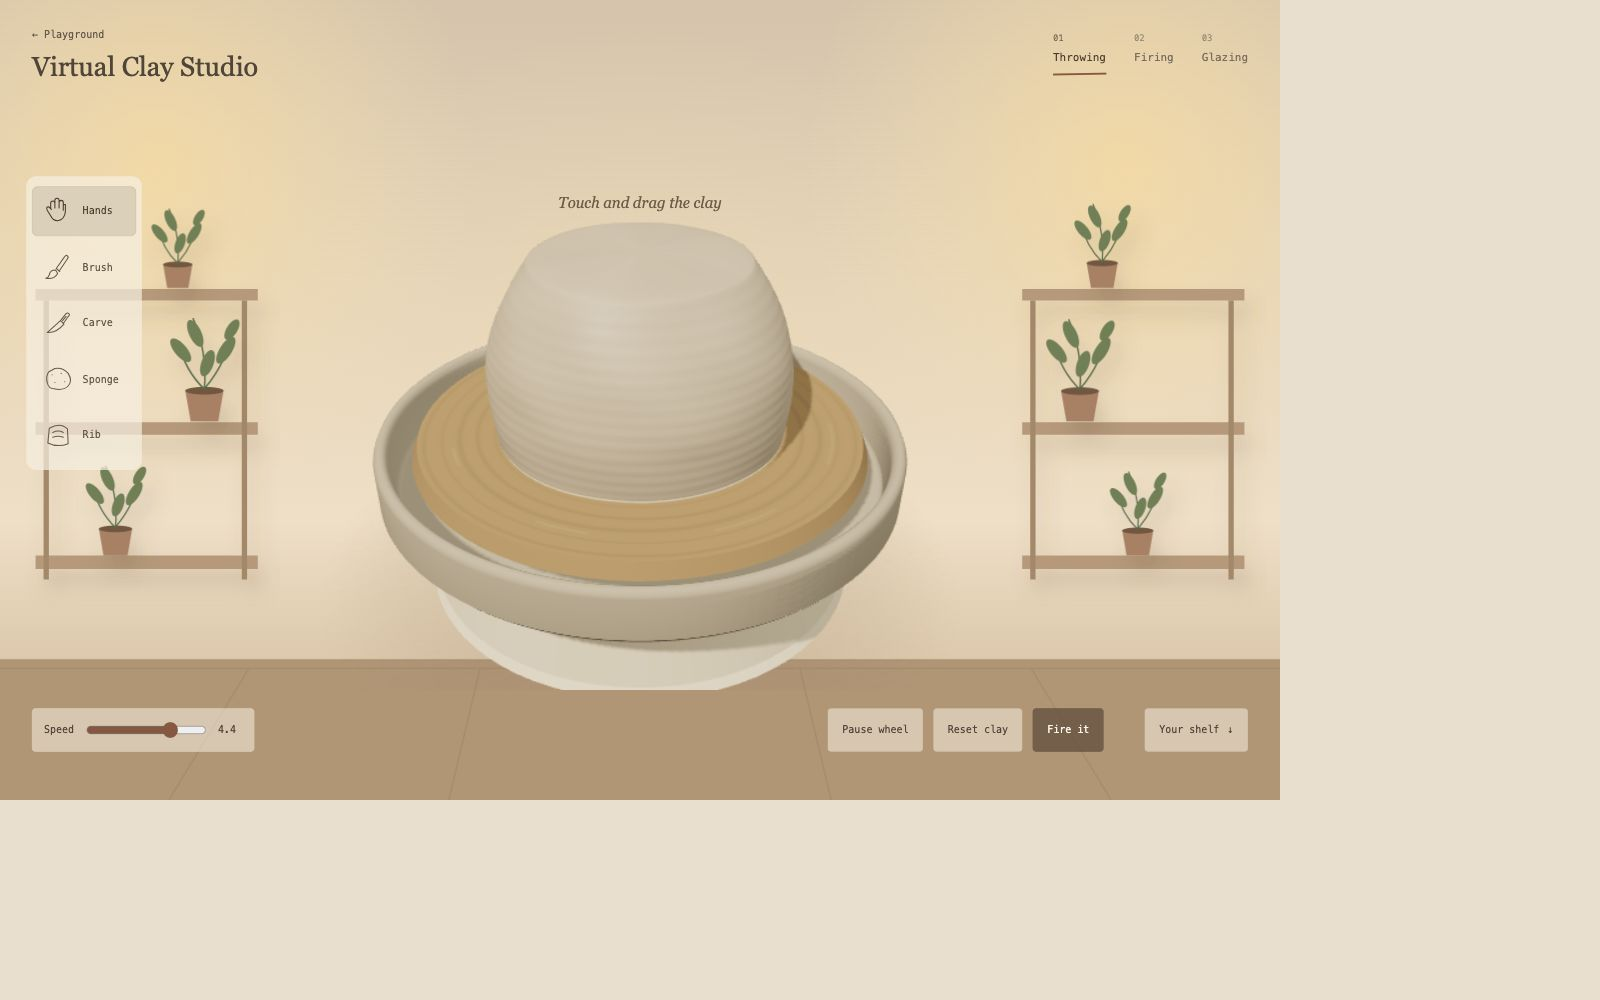
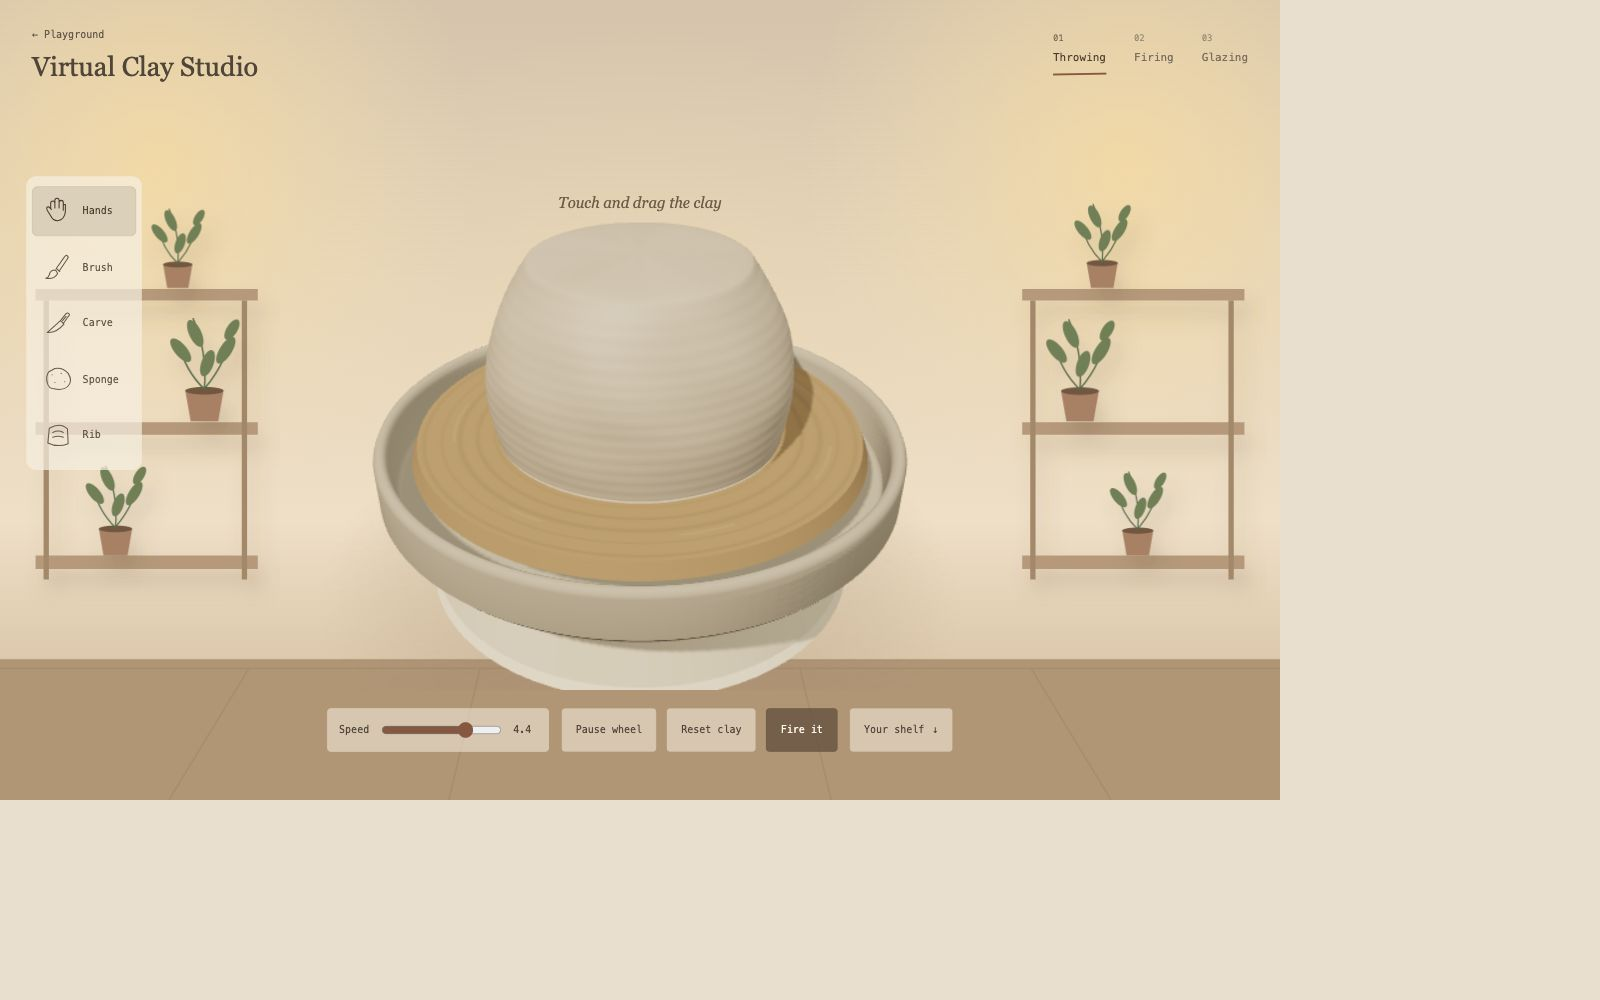
Group studio bottom controls beside speed

Changed region(s): [[0.1875, 0.682, 0.7812, 0.775], [0.0, 0.682, 0.1562, 0.775]]

diff --git a/interface.css b/interface.css
@@ -2,7 +2,7 @@
 *{box-sizing:border-box}html{scroll-behavior:smooth;background:#e9dfcd}body{margin:0;color:var(--ink);font-family:Georgia,serif}button,input{font:inherit}button,a,input{-webkit-tap-highlight-color:transparent}button{cursor:pointer}button:focus-visible,a:focus-visible,input:focus-visible{outline:2px solid var(--focus);outline-offset:4px}button:disabled{cursor:wait;opacity:.5}
 .studio{position:relative;height:100svh;min-height:640px;overflow:hidden}.work-surface{position:relative;height:100%;background:linear-gradient(#d8c4a8,#eddcc1 60%,#b69571)}.studio-room{position:absolute;inset:0;width:100%;height:100%;pointer-events:none}.three-stage{position:absolute;inset:96px 0 110px;z-index:1;touch-action:none;user-select:none}.three-stage canvas{display:block;width:100%;height:100%;outline:none;cursor:crosshair}.three-stage canvas:focus-visible{outline:2px solid var(--focus);outline-offset:-8px}.studio-header{position:absolute;z-index:4;top:24px;left:32px;right:32px;display:flex;justify-content:space-between;align-items:center;gap:24px;pointer-events:none}.studio-header a{pointer-events:auto}.studio-header h1{font:normal 27px/1.2 Georgia,serif;margin:8px 0 0}.study-back{font:10px/1.4 ui-monospace,monospace;color:#665848;text-decoration:none}.process{display:flex;gap:28px;padding:0;margin:0;list-style:none;font:11px/1.5 ui-monospace,monospace}.process li{position:relative;color:#796b59;padding-bottom:10px}.process li span{display:block;font-size:9px;opacity:.7;margin-bottom:4px}.process li[aria-current]{color:#4b3827}.process li[aria-current]:after{content:'';position:absolute;left:0;right:0;bottom:0;height:2px;background:#8e563c;transform:rotate(-1deg)}.process li.is-past{opacity:.65}
 .slip-tray{display:contents}.tool-row{position:absolute;left:26px;top:22%;z-index:4;display:flex;flex-direction:column;gap:6px;padding:10px 6px;background:#f7efe0b3;border-radius:10px}.tool{display:flex;align-items:center;gap:10px;padding:8px 12px;min-width:104px;min-height:50px;color:#685946;background:none;border:1px solid transparent;border-radius:6px;font:10px/1.2 ui-monospace,monospace}.tool svg{width:28px;height:28px;fill:none;stroke:currentColor;stroke-width:1.5;stroke-linecap:round;stroke-linejoin:round}.tool:hover{background:#eadbc699}.tool[aria-pressed=true]{background:#ddd0b6;color:#4b3827;border-color:#a5896633}.slip-colors{position:absolute;z-index:4;right:28px;top:22%;display:flex;flex-direction:column;gap:10px;align-items:center;padding:18px 12px;background:#f7efe0b3;border-radius:10px}.palette-label{font:10px/1.3 ui-monospace,monospace;letter-spacing:.08em}.slip-color,.glaze-color{width:44px;height:44px;border-radius:50%;border:5px solid #eee4d600;min-width:44px;box-shadow:inset 0 0 0 1px #57443122}.slip-color[aria-pressed=true],.glaze-color[aria-pressed=true]{outline:1.5px solid var(--focus);outline-offset:3px}.glaze-tray{position:absolute;z-index:4;right:24px;top:22%;display:none;flex-direction:column;align-items:center;gap:16px;padding:18px 16px;background:#f7efe0b3;border-radius:10px}.glaze-colors{display:flex;flex-direction:column;gap:10px}.glaze-size{display:flex;align-items:center;gap:8px;font:9px/1.4 ui-monospace,monospace;flex-wrap:wrap;width:120px}.glaze-size input{width:75px;accent-color:#8e563c}.glaze-size output{font-variant-numeric:tabular-nums}
-.controls{position:absolute;z-index:4;bottom:48px;left:32px;right:32px;display:flex;justify-content:space-between;align-items:center;gap:20px}.speed-control{display:flex;align-items:center;gap:10px;padding:8px 12px;min-height:44px;background:#f7efe0cc;border-radius:4px;font:10px/1.3 ui-monospace,monospace}.speed-control input{width:120px;accent-color:#8e563c}.speed-readout{font-variant-numeric:tabular-nums;min-width:24px}.action-row{display:flex;gap:10px}.action{font:10px/1.3 ui-monospace,monospace;min-height:44px;padding:12px 14px;background:#f7efe0cc;color:var(--ink);border:1px solid #a68b6833;border-radius:4px}.action:hover{background:#f7efe0}.action--fire{background:#66503b;color:#fff7e8;border-color:#66503b}.action--fire:hover{background:#4f3d2c}.fired-actions,.glaze-actions,.complete-actions{display:none}.work-surface.is-fired~.controls .making-actions{display:none}.work-surface.is-fired~.controls .fired-actions{display:flex}.work-surface.is-glazing~.controls .fired-actions{display:none}.work-surface.is-glazing~.controls .glaze-actions{display:flex}.work-surface.is-glazing~.slip-tray,.work-surface.is-firing~.slip-tray,.work-surface.is-complete~.slip-tray{display:none}.work-surface.is-glazing~.glaze-tray{display:flex}.work-surface.is-complete~.controls .glaze-actions,.work-surface.is-complete~.glaze-tray{display:none}.work-surface.is-complete~.controls .complete-actions{display:flex}.work-surface.is-firing~.controls .making-actions{visibility:hidden}
+.controls{position:absolute;z-index:4;bottom:48px;left:32px;right:32px;display:flex;justify-content:space-between;align-items:center;gap:20px}.speed-control{display:flex;align-items:center;gap:10px;padding:8px 12px;min-height:44px;background:#f7efe0cc;border-radius:4px;font:10px/1.3 ui-monospace,monospace}.speed-control input{width:120px;accent-color:#8e563c}.speed-readout{font-variant-numeric:tabular-nums;min-width:24px}.action-row{display:flex;gap:10px}.action{font:10px/1.3 ui-monospace,monospace;min-height:44px;padding:12px 14px;background:#f7efe0cc;color:var(--ink);border:1px solid #a68b6833;border-radius:4px}.action:hover{background:#f7efe0}.action--fire{background:#66503b;color:#fff7e8;border-color:#66503b}.action--fire:hover{background:#4f3d2c}.fired-actions,.glaze-actions,.complete-actions{display:none}.work-surface.is-fired~.bottom-interface .controls .making-actions{display:none}.work-surface.is-fired~.bottom-interface .controls .fired-actions{display:flex}.work-surface.is-glazing~.bottom-interface .controls .fired-actions{display:none}.work-surface.is-glazing~.bottom-interface .controls .glaze-actions{display:flex}.work-surface.is-glazing~.slip-tray,.work-surface.is-firing~.slip-tray,.work-surface.is-complete~.slip-tray{display:none}.work-surface.is-glazing~.glaze-tray{display:flex}.work-surface.is-complete~.bottom-interface .controls .glaze-actions,.work-surface.is-complete~.glaze-tray{display:none}.work-surface.is-complete~.bottom-interface .controls .complete-actions{display:flex}.work-surface.is-firing~.bottom-interface .controls .making-actions{visibility:hidden}
 .shelf-link{background:#f7efe0e6;padding:0 14px;border-radius:4px;position:absolute;z-index:4;bottom:9px;left:50%;transform:translateX(-50%);display:flex;align-items:center;gap:14px;min-height:36px;color:var(--ink);text-decoration:none;font:11px/1.4 ui-monospace,monospace}.shelf-link:hover{text-decoration:underline}.first-invite{position:absolute;z-index:3;left:50%;top:24%;transform:translateX(-50%);padding:0;margin:0;color:#725b42;font:italic 15px/1.5 Georgia,serif;pointer-events:none}.first-invite.is-complete{opacity:0}.phase-note{position:absolute;z-index:3;left:50%;top:25%;transform:translateX(-50%);font:italic 18px/1.4 Georgia,serif;pointer-events:none;opacity:0}.phase-note.is-visible{opacity:1}.kiln-wash{position:absolute;z-index:3;inset:0;pointer-events:none;opacity:0;background:radial-gradient(ellipse at 50% 57%,#ffd18566,transparent 60%)}.work-surface.is-firing .kiln-wash{animation:kiln-wash 2.4s ease-in-out}@keyframes kiln-wash{0%,100%{opacity:0}35%,75%{opacity:1}}
 .finished-shelves{position:absolute;inset:0;z-index:2;pointer-events:none;overflow:hidden}.shelf-piece{position:absolute;margin:0;transform:translate(-50%,-100%)}.shelf-piece img{display:block;width:100%;height:100%;object-fit:contain;object-position:center bottom}.mobile-studio-shelf{display:none}.contact{position:absolute;z-index:2;width:30px;height:30px;border:1px solid #8e563c88;border-radius:50%;pointer-events:none;transform:translate(-50%,-50%);opacity:0}.contact.is-active{opacity:1}.fallback{display:none;position:absolute;top:50%;left:50%;transform:translate(-50%,-50%)}.fallback.is-visible{display:block}.status,.caption,.stage-note,.fired-label,.local-ink-note{position:absolute;width:1px;height:1px;overflow:hidden;clip-path:inset(50%)}
 .collection{padding:60px max(32px,calc((100vw - 1080px)/2));background:radial-gradient(ellipse at top,#f4ecde,#e8decc);min-height:340px}.collection-heading{display:flex;align-items:baseline;justify-content:space-between;gap:20px;margin-bottom:36px}.collection-heading h2{font:normal 30px/1.3 Georgia,serif;margin:0}.collection-heading a{font:10px/1.4 ui-monospace,monospace;color:var(--ink);text-decoration:none;min-height:44px;display:flex;align-items:center}.collection-grid{display:grid;grid-template-columns:repeat(3,1fr);gap:36px 24px}.collection-piece{margin:0;min-width:0;position:relative;text-align:center;padding:24px 12px 16px;border-bottom:8px solid #b7997877}.collection-piece img{display:block;height:170px;width:100%;object-fit:contain;filter:drop-shadow(5px 7px 4px #6f533929)}.collection-piece figcaption{display:flex;justify-content:space-between;align-items:center;gap:10px;font:9px/1.4 ui-monospace,monospace;margin-top:20px}.collection-piece a{color:var(--ink);padding:8px;min-height:36px}.collection-empty{font:italic 17px/1.6 Georgia,serif;color:#796751}.collection-footnote{margin:36px 0 0;font:10px/1.4 ui-monospace,monospace;color:#796751}
@@ -104,4 +104,11 @@
  .speed-control{gap:6px;padding:8px}
  .speed-control input{width:64px}
  .shelf-link{right:20px;padding:0 10px}
+}
+
+.bottom-interface{display:contents}
+@media(min-width:621px){
+ .bottom-interface{position:absolute;z-index:4;left:50%;bottom:48px;transform:translateX(-50%);display:flex;align-items:center;gap:12px;width:max-content;max-width:calc(100% - 40px)}
+ .bottom-interface .controls{position:static;justify-content:flex-start;gap:12px}
+ .bottom-interface .shelf-link{position:static;transform:none;flex-shrink:0}
 }

diff --git a/index.html b/index.html
@@ -13,7 +13,7 @@
 
 
 
-<link rel="stylesheet" href="./interface.css?v=mobile-20261002" /></head>
+<link rel="stylesheet" href="./interface.css?v=mobile-20261002b" /></head>
   <body>
     <main class="studio" id="workspace">
 <header class="studio-header"><div><a class="study-back" href="https://saleney.github.io/">← Playground</a><h1>Virtual Clay Studio</h1></div>
@@ -46,22 +46,22 @@
 <use href="#planter" transform="translate(307 88) scale(.44)"/>
 </svg><div class="finished-shelves" data-finished-shelves hidden aria-hidden="true"></div><p class="stage-note" data-stage-note>touch the spinning clay</p><p class="fired-label">fired in a very small kiln</p><p class="first-invite" data-first-invite>Touch and drag the clay</p><div class="kiln-wash" aria-hidden="true"></div><p class="phase-note" data-phase-note role="status" aria-live="polite"></p><div class="three-stage" data-stage></div><div class="contact" data-contact aria-hidden="true"></div><p class="fallback" data-fallback>Your browser could not open the clay material. Try a current browser and come back to the atelier.</p></section>
 
-      <section class="controls" aria-label="Clay studio actions">
+      <div class="bottom-interface"><section class="controls" aria-label="Clay studio actions">
         <label class="speed-control">Speed <input type="range" data-wheel-speed min="0" max="6" step="0.1" value="4.4" aria-describedby="wheel-speed-value" /><output class="speed-readout" id="wheel-speed-value" data-wheel-speed-value>4.4</output></label>
         <div class="action-row making-actions"><button class="action" type="button" data-wheel-toggle aria-pressed="false">Pause wheel</button><button class="action" type="button" data-new>Reset clay</button><button class="action action--fire" type="button" data-fire>Fire it</button></div>
         <div class="action-row fired-actions"><button class="action" type="button" data-back>Back to clay</button><button class="action" type="button" data-new>New clay</button></div>
         <div class="action-row glaze-actions"><button class="action action--fire" type="button" data-finish>Save piece</button></div>
         <div class="action-row complete-actions"><button class="action" type="button" data-glaze-again>Glaze again</button><button class="action action--fire" type="button" data-new>New clay</button></div>
-      </section>
+      </section><a class="shelf-link" href="#your-shelf">Your shelf <span aria-hidden="true">↓</span></a></div>
       <section class="slip-tray" aria-label="Wet clay tools">
         <div class="tool-row" role="group" aria-label="Pottery tools"><button class="tool" type="button" data-tool="hand" aria-pressed="true"><svg viewBox="0 0 40 40" aria-hidden="true"><path d="M9 17V9q0-3 3-3t3 3v7M15 15V5q0-3 3-3t3 3v11M21 15V8q0-3 3-3t3 3v11M27 16v-3q0-3 3-2v10q-1 12-11 13-7 0-10-7l-5-8q-2-5 2-5l4 4"/></svg><span>Hands</span></button><button class="tool" type="button" data-tool="brush" aria-pressed="false"><svg viewBox="0 0 40 40" aria-hidden="true"><path d="M17 22L29 5q2-3 4-1t0 4L21 26M17 22l5 4M16 24q-8 0-9 7-1 4-5 5 12 2 17-7Z"/></svg><span>Brush</span></button><button class="tool" type="button" data-tool="carve" aria-pressed="false"><svg viewBox="0 0 40 40" aria-hidden="true"><path d="M23 17L31 7q2-2 4 0t-1 4L27 21M23 17l5 5Q17 35 4 34q9-8 19-17ZM26 17l5-6"/></svg><span>Carve</span></button><button class="tool" type="button" data-tool="sponge" aria-pressed="false"><svg viewBox="0 0 40 40" aria-hidden="true"><path d="M6 10q-4 6-2 15t10 9q13 3 20-4t0-18Q26 3 15 5Z M11 14h.1M24 12h.1M15 25h.1M29 24h.1"/></svg><span>Sponge</span></button><button class="tool" type="button" data-tool="rib" aria-pressed="false"><svg viewBox="0 0 40 40" aria-hidden="true"><path d="M7 10q16-9 26 1l1 21q-15 6-29-1Z M12 16q8-4 15 0M12 23q8-3 15 0"/></svg><span>Rib</span></button></div>
         <div class="slip-colors" role="group" aria-label="Slip colors"><span class="palette-label">Slip</span><button class="slip-color" type="button" data-slip-color="clay" aria-label="Clay-colored slip" aria-pressed="false" style="background:#d1c3ad"></button><button class="slip-color" type="button" data-slip-color="cream" aria-label="Cream slip" aria-pressed="true" style="background:#dfd1b8"></button><button class="slip-color" type="button" data-slip-color="rust" aria-label="Rust slip" aria-pressed="false" style="background:#9a5038"></button><button class="slip-color" type="button" data-slip-color="brown" aria-label="Deep brown slip" aria-pressed="false" style="background:#473329"></button><button class="slip-color" type="button" data-slip-color="charcoal" aria-label="Charcoal slip" aria-pressed="false" style="background:#363638"></button></div>
       </section>
       <section class="glaze-tray" aria-label="Fired ceramic glazes"><span class="palette-label">Glaze</span><div class="glaze-colors" role="group" aria-label="Glaze colors"><button class="glaze-color" type="button" data-glaze-color="celadon" aria-label="Celadon glaze" aria-pressed="true" style="background:#708b79"></button><button class="glaze-color" type="button" data-glaze-color="honey" aria-label="Honey glaze" aria-pressed="false" style="background:#b58b52"></button><button class="glaze-color" type="button" data-glaze-color="cobalt" aria-label="Cobalt glaze" aria-pressed="false" style="background:#2a4b6f"></button><button class="glaze-color" type="button" data-glaze-color="ash" aria-label="Ash glaze" aria-pressed="false" style="background:#cfc9b5"></button><button class="glaze-color" type="button" data-glaze-color="rose" aria-label="Dusty rose glaze" aria-pressed="false" style="background:#b98b85"></button><button class="glaze-color" type="button" data-glaze-color="plum" aria-label="Smoked plum glaze" aria-pressed="false" style="background:#776475"></button><button class="glaze-color" type="button" data-glaze-color="chalk" aria-label="Chalk glaze" aria-pressed="false" style="background:#ece3d3"></button><button class="glaze-color" type="button" data-glaze-color="moss" aria-label="Moss glaze" aria-pressed="false" style="background:#666e4e"></button></div><label class="glaze-size">Brush size <input type="range" data-glaze-size min="0.55" max="2.2" step="0.05" value="1" /><output data-glaze-size-value>1.0×</output></label></section>
       <p class="status" data-status role="status" aria-live="polite">The wheel is turning. Let your hands find the form.</p><p class="caption" data-caption>Guide the clay outward or inward; lift it up or settle it down. With the clay focused, arrow keys shape its middle.</p>
-<a class="shelf-link" href="#your-shelf">Your shelf <span aria-hidden="true">↓</span></a>
+
 </main>
 <section class="collection" id="your-shelf" aria-labelledby="collection-heading"><div class="collection-heading"><h2 id="collection-heading">Your shelf</h2><a href="#workspace">Back to the wheel ↑</a></div><p class="collection-empty" data-collection-empty>Your finished pieces will be kept here.</p><div class="collection-grid" data-collection-grid></div><p class="collection-footnote">Kept in this browser.</p></section>
-    <svg class="local-ink-note" viewBox="0 0 200 44" fill="none" stroke="currentColor" stroke-width="1.5" stroke-linecap="round" aria-hidden="true"><path d="M3 12q9-8 5 14m-6-9 10-1m8-5-2 17m2-8q6-10 11-4m2-3q0 17 9 10m4-11-8 27m25-21q-9-9-12 5t12-4v11m9-16-2 18m2-10q7-12 10-4l2 14m20-23-1 20m-4-11h10m9-6q-11 1-8 13t10-5q1-9-2-8m10-2-1 17m2-9q8-12 12-4l1 14m7-16q-7 7 1 11t5-11m12-4-1 19m-4-10h11"/><path d="M6 37q61 4 132-1"/></svg><script type="module" src="./atelier.js?v=mobile-20261002"></script><script type="module" src="./interface.js?v=mobile-20261002"></script>
+    <svg class="local-ink-note" viewBox="0 0 200 44" fill="none" stroke="currentColor" stroke-width="1.5" stroke-linecap="round" aria-hidden="true"><path d="M3 12q9-8 5 14m-6-9 10-1m8-5-2 17m2-8q6-10 11-4m2-3q0 17 9 10m4-11-8 27m25-21q-9-9-12 5t12-4v11m9-16-2 18m2-10q7-12 10-4l2 14m20-23-1 20m-4-11h10m9-6q-11 1-8 13t10-5q1-9-2-8m10-2-1 17m2-9q8-12 12-4l1 14m7-16q-7 7 1 11t5-11m12-4-1 19m-4-10h11"/><path d="M6 37q61 4 132-1"/></svg><script type="module" src="./atelier.js?v=mobile-20261002b"></script><script type="module" src="./interface.js?v=mobile-20261002b"></script>
   </body>
 </html>

diff --git a/docs/mobile-studio-release-2026-10-02/README.md b/docs/mobile-studio-release-2026-10-02/README.md
@@ -9,3 +9,5 @@ Production keeps virtual-clay-studio-shelf-v1; prototype storage is not copied. 
 Screenshots: after-desktop.png, after-mobile.png. Earlier release screenshots are in ../cozy-studio-release-2026-10-01/. This verification uses browser responsive previews, not a physical phone.
 
 Desktop follow-up: the action surfaces are partially transparent, and Your shelf aligns with the Speed/Pause/Reset/Fire row at the same 44px height. Mobile navigation stays at the top.
+
+Final desktop spacing: all controls now form one compact centered group, with Speed directly beside Pause/Reset/Fire and Your shelf. Mobile remains unchanged.
